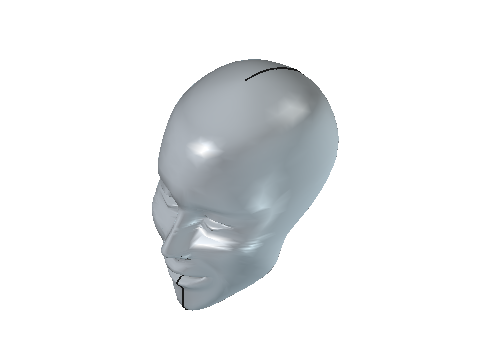
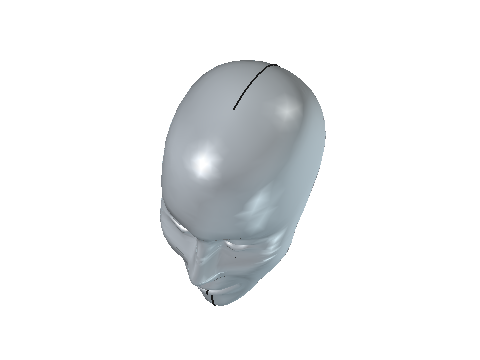
HumanHead1: recover faces dropped by untrimmed-ratio guard
A face of a multi-face Brep whose trimmed reconstruction fails on every
tier and which has a single outer loop and no holes is usually a closed /
full-extent surface (v1/v3 HumanHead1's merged head+neck piece).  Fall back
to the full NURBS surface (untrimmed-full) instead of dropping it, matching
what a single-surface Brep of the same geometry already imports — the V1/V3
heads were rendering missing a surface while V2 looked correct.

diff --git a/freecad/importExport3DM/import3DM.py b/freecad/importExport3DM/import3DM.py
@@ -1139,6 +1139,16 @@ class File3dm:
                 f = nsurf.toShape()
                 if _okf(f) and _within_wire(f):
                     return f, "untrimmed"
+                # tier 3b — a face with a single outer loop and no holes whose
+                # trimmed reconstruction failed everywhere is often a closed /
+                # full-extent surface (HumanHead's merged head+neck surface: the
+                # outer "wire" is only the small opening, while the full NURBS
+                # surface IS the geometry).  A single-face Brep of the same
+                # surface imports untrimmed via import_geometry with no size
+                # check, so mirror that here instead of dropping the face and
+                # leaving the model with a missing surface.
+                if not inners and _okf(f):
+                    return f, "untrimmed-full"
             except Exception:
                 pass
         return None, "fail"
